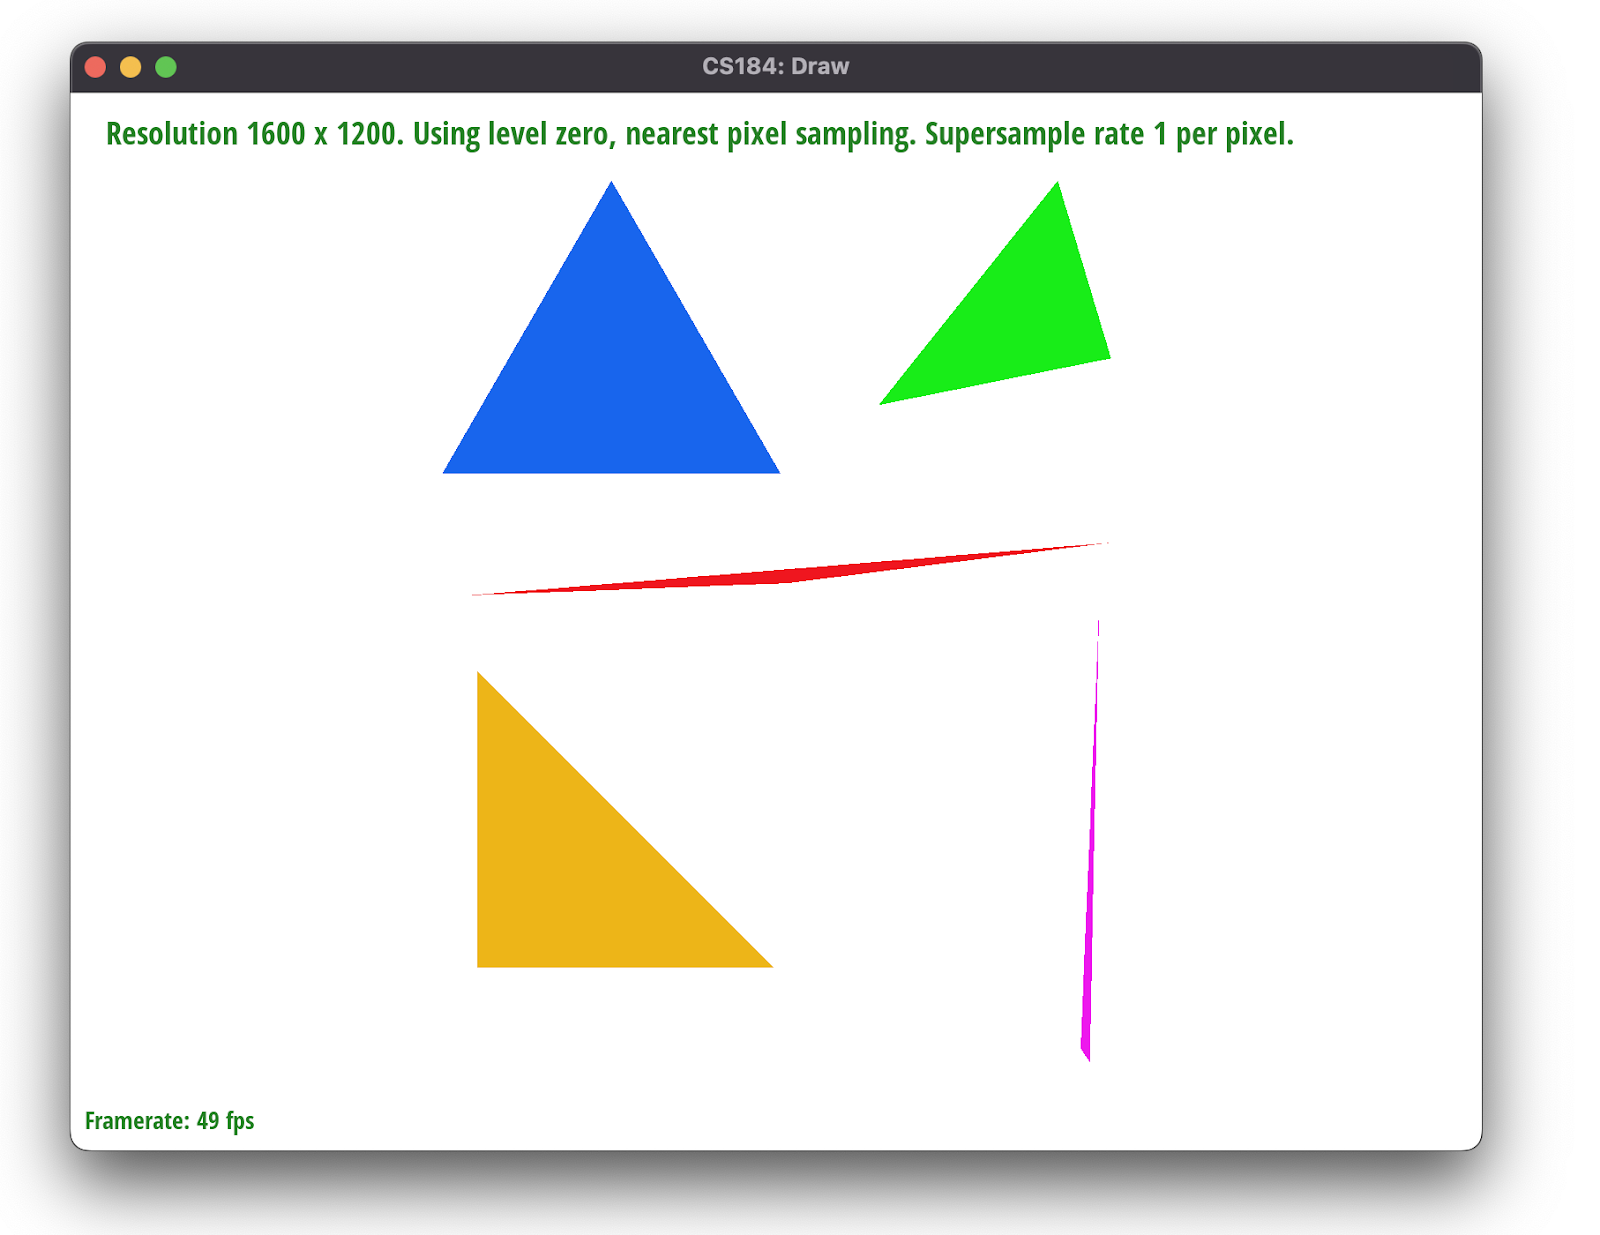
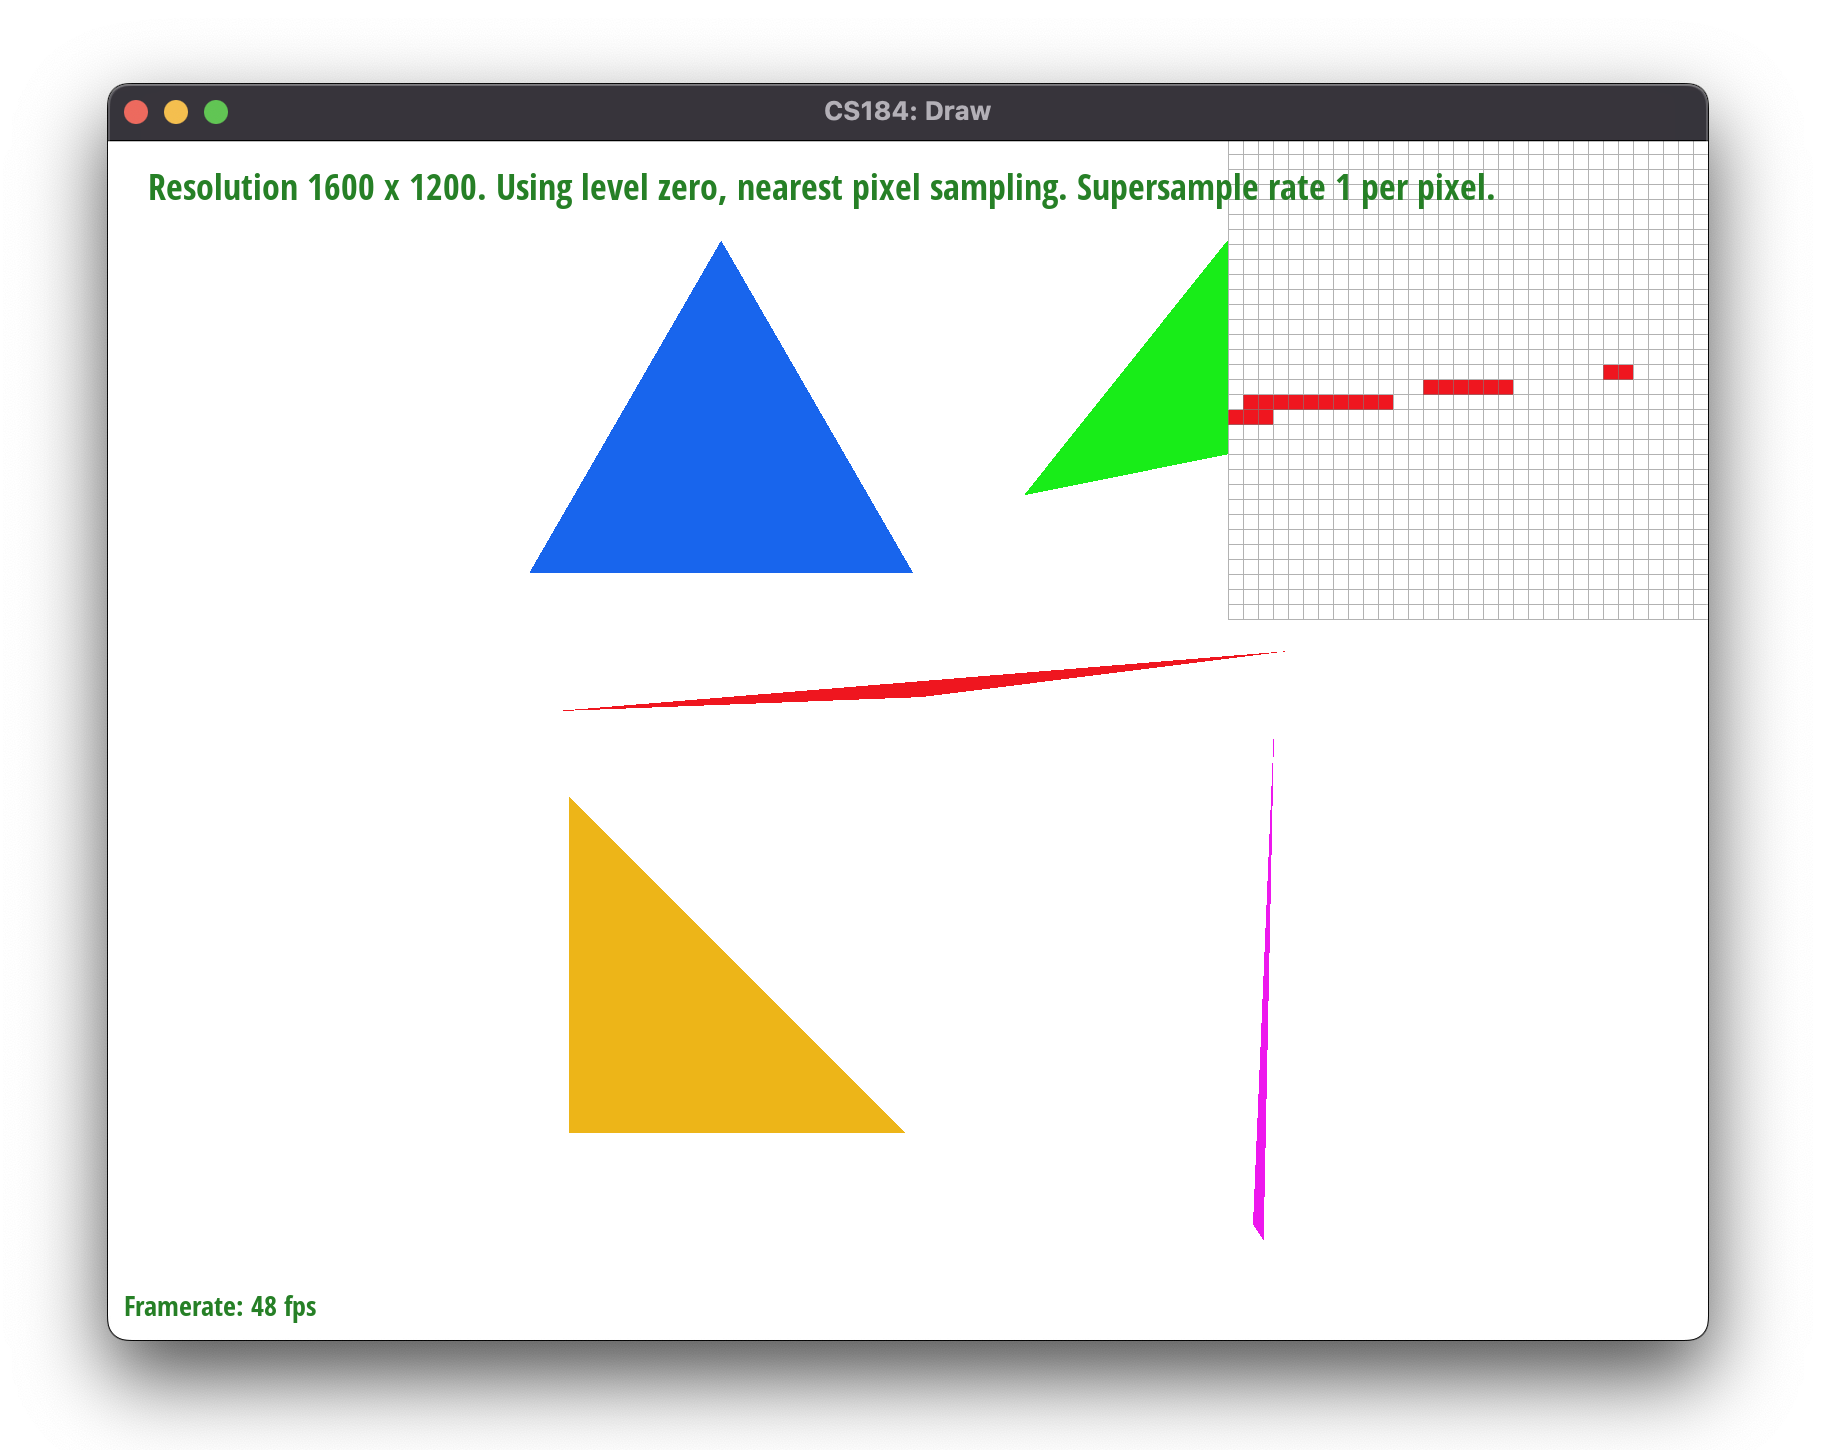
all pics

diff --git a/proj1/index.html b/proj1/index.html
@@ -67,11 +67,15 @@ Therefore, the given algorithm is no worse than one that checks each sample with
     In order to antialias our triangles, we increased the size of our sample buffer so that we could store one color per sample. In order to achieve this, we modified the <code>sample_buffer.resize()</code> calls in <code>set_sample_rate</code> and <code>set_framebuffer_target</code> to set the size to <code>width * height * sample_rate</code>. We also modified the <code>rasterize_triangle</code> function to be able to sample multiple points within the given pixel. The samples are evenly spaced in a sort of mini-grid within the grid of pixels. As we move through the grids using for loops, we set the color in the sample buffer to be the triangle color if it is within the triangle. We modified <code>resolve_to_framebuffer</code> so that it could take in multiple sample colors from the sample buffer to determine a single pixel color. Specifically, we averaged the color values. This involved summing the RGB values for each color and dividing by the number of colors. We implemented supersampling for triangles, but we still wanted lines and points to render appropriately, so we modified <code>fill_pixel</code> to fill all corresponding samples in the sample buffer with the desired color. That way, when the corresponding samples were averaged to determine the color for the pixel, they averaged to the desired color.
 
     <br><br>
-    TODO: image
+    <img src="task1.png" width="700">
+    <img src="task2-sr4.png" width="700">
+    <img src="task2-sr9.png" width="700">
+    <img src="task2-sr16.png" width="700">
+
 
 		<h2 class="center">Task 3: Transforms</h2>
 
-    TODO: image
+    <img src="task3.png" width="700">
     <br><br>
     The cubeman is mid-somersault, trying to get into a handstand to then swing his legs around underneath himself. I have changed the body color by adding blue tiles to give him more motion.
 
@@ -85,7 +89,8 @@ Therefore, the given algorithm is no worse than one that checks each sample with
     For △ABC, if P=(α,β,γ), where α+β+γ=1, and A, B, C each has an associated value, then P=αA+βB+γC
     
     <br><br>
-    TODO: color wheel image
+
+    <img src="task4.png" width="700">
 
 		<h2 class="center">Task 5: "Pixel sampling" for texture mappings</h2>
 
